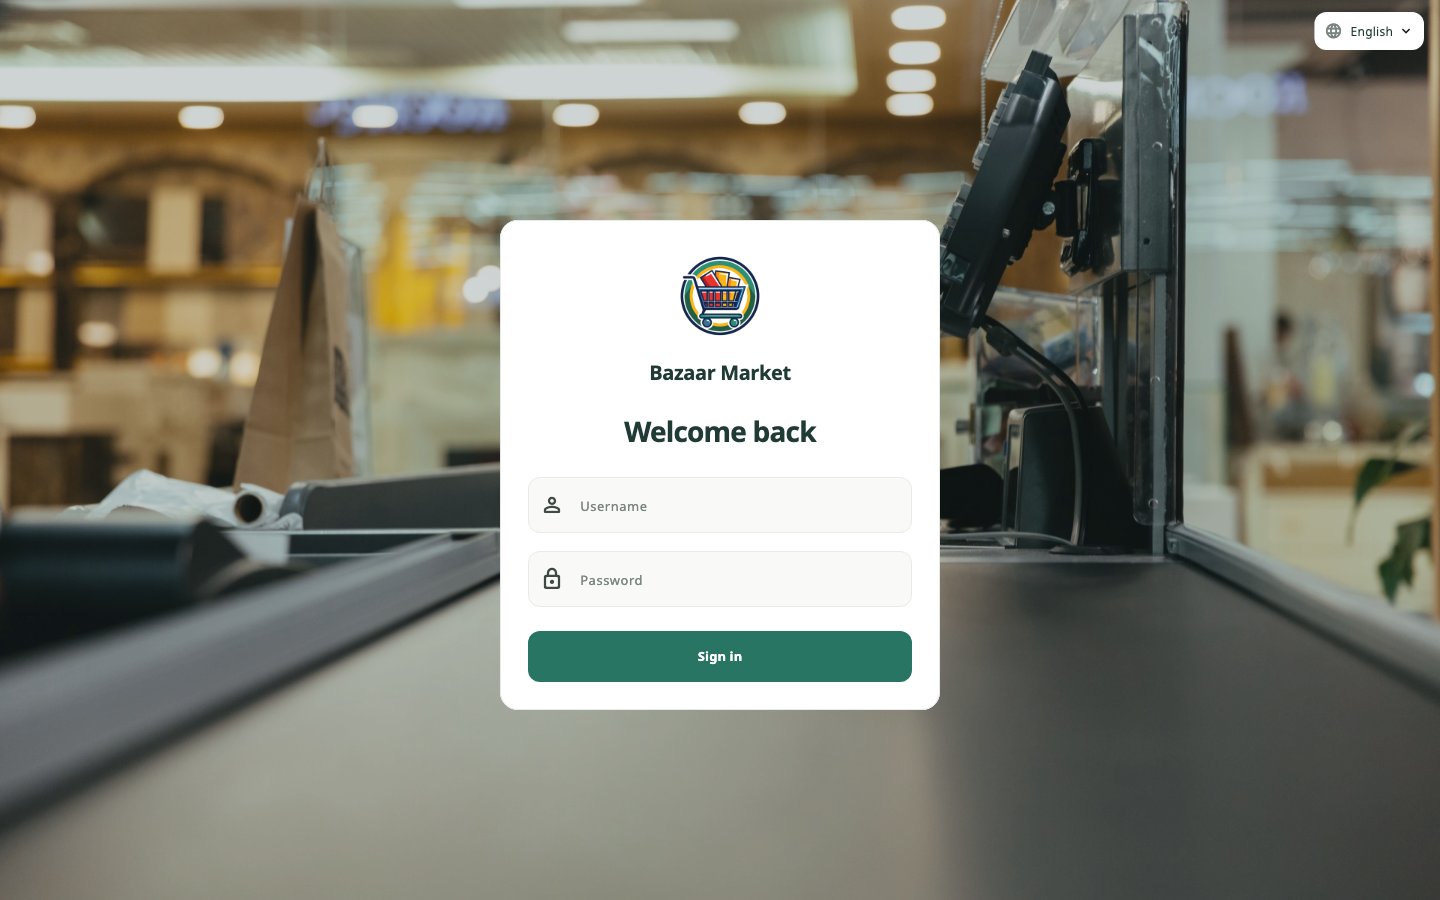
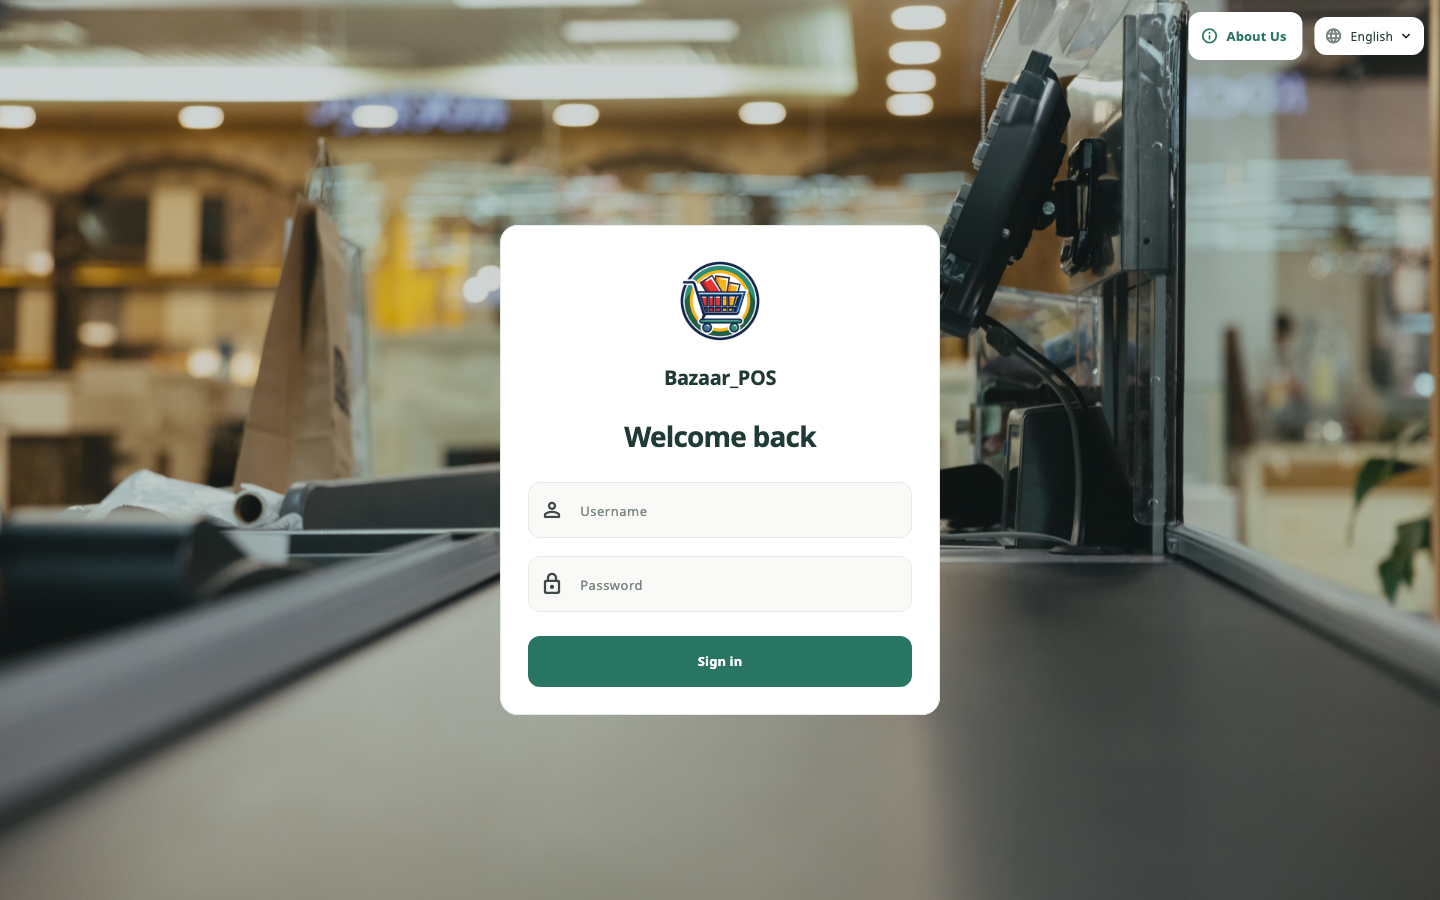
Bazaar_POS update

diff --git a/lib/screens/welcome_screen.dart b/lib/screens/welcome_screen.dart
@@ -36,6 +36,35 @@ class _WelcomeScreenState extends State<WelcomeScreen> {
     }
   }
 
+  void _showAboutUs() {
+    showDialog<void>(
+      context: context,
+      builder: (context) => AlertDialog(
+        title: Text(context.tr('aboutUs')),
+        scrollable: true,
+        content: Column(
+          mainAxisSize: MainAxisSize.min,
+          crossAxisAlignment: CrossAxisAlignment.start,
+          children: [
+            Image.asset(defaultLogoAsset, width: 64, height: 64),
+            const SizedBox(height: 16),
+            Text('Bazaar_POS', style: Theme.of(context).textTheme.titleLarge),
+            const SizedBox(height: 12),
+            Text(context.tr('aboutPurposeValue')),
+            const SizedBox(height: 16),
+            const Text('Powered By: Safin Gulli'),
+          ],
+        ),
+        actions: [
+          TextButton(
+            onPressed: () => Navigator.pop(context),
+            child: Text(context.tr('close')),
+          ),
+        ],
+      ),
+    );
+  }
+
   @override
   Widget build(BuildContext context) => Scaffold(
     body: Stack(
@@ -50,14 +79,41 @@ class _WelcomeScreenState extends State<WelcomeScreen> {
         SafeArea(
           child: Column(
             children: [
-              const Align(
+              Align(
                 alignment: AlignmentDirectional.centerEnd,
                 child: Padding(
-                  padding: EdgeInsets.fromLTRB(16, 12, 16, 0),
-                  child: Material(
-                    color: Colors.white,
-                    borderRadius: BorderRadius.all(Radius.circular(12)),
-                    child: LanguageMenu(),
+                  padding: const EdgeInsets.fromLTRB(16, 12, 16, 0),
+                  child: Wrap(
+                    alignment: WrapAlignment.end,
+                    crossAxisAlignment: WrapCrossAlignment.center,
+                    spacing: 12,
+                    runSpacing: 8,
+                    children: [
+                      Material(
+                        color: Colors.white,
+                        borderRadius: BorderRadius.circular(12),
+                        child: TextButton.icon(
+                          key: const ValueKey('welcome-about-us'),
+                          onPressed: _showAboutUs,
+                          style: TextButton.styleFrom(
+                            minimumSize: const Size(0, 44),
+                            shape: RoundedRectangleBorder(
+                              borderRadius: BorderRadius.circular(12),
+                            ),
+                          ),
+                          icon: const Icon(
+                            Icons.info_outline_rounded,
+                            size: 18,
+                          ),
+                          label: Text(context.tr('aboutUs')),
+                        ),
+                      ),
+                      const Material(
+                        color: Colors.white,
+                        borderRadius: BorderRadius.all(Radius.circular(12)),
+                        child: LanguageMenu(),
+                      ),
+                    ],
                   ),
                 ),
               ),
@@ -86,7 +142,7 @@ class _WelcomeScreenState extends State<WelcomeScreen> {
                                 ),
                                 const SizedBox(height: 16),
                                 Text(
-                                  context.store.settings.name,
+                                  'Bazaar_POS',
                                   textAlign: TextAlign.center,
                                   style: Theme.of(context).textTheme.titleLarge,
                                 ),

diff --git a/lib/core/strings.dart b/lib/core/strings.dart
@@ -149,7 +149,7 @@ final Map<String, List<String>> translations = {
     "رمز منتج مخصص",
     "هێمایێ تایبەت یێ بەرهەمی",
   ],
-  "aboutUs": ["About us", "من نحن", "دەربارەی مە"],
+  "aboutUs": ["About Us", "من نحن", "دەربارەی مە"],
   "aboutAppName": ["App name", "اسم التطبيق", "ناڤێ ئەپێ"],
   "aboutPurpose": ["What we do", "ماذا نقدم", "ئەو کارێ ئەم دکەین"],
   "aboutPurposeValue": [

diff --git a/README.md b/README.md
@@ -19,7 +19,7 @@ that launch configuration so port 8080 is available.
 To make the app available at an internet address, follow the
 [website publishing and GitHub release guide](docs/publishing.md).
 
-The welcome screen shows only the store branding, language selector, and username/password sign-in form. Enter username **`safin97`** and the password supplied by the store owner, then select **Sign in**. This account has **super manager** access. The password is not printed in this README or stored as plaintext in the app.
+The welcome screen shows the Bazaar_POS branding, language selector, an **About Us** button in the top corner, and the username/password sign-in form. Enter username **`safin97`** and the password supplied by the store owner, then select **Sign in**. This account has **super manager** access. The password is not printed in this README or stored as plaintext in the app.
 
 A one-time migration provisions this account for both fresh installations and existing local databases. Existing inventory, sales, branding and other staff accounts are retained. Subsequent starts respect account edits and password changes rather than resetting them. New installations include editable sample inventory with no fabricated sales. Store details and team accounts are managed after signing in.
 
@@ -103,7 +103,7 @@ flutter build windows --release
 - **iOS/macOS:** install full Xcode and run its first-launch setup. Plugin builds may also need CocoaPods. iOS device distribution needs your Apple signing team and provisioning.
 - **Windows:** build on Windows with Visual Studio's Desktop development with C++ workload.
 - macOS sandbox entitlements include user-selected file access and printing.
-- Editable in-app branding changes the welcome screen, navigation and receipts. OS launcher names/icons are build-time assets; changing those requires rebuilding the app.
+- Editable in-app branding changes the market navigation and receipts. The welcome screen keeps the Bazaar_POS app name and logo. OS launcher names/icons are build-time assets; changing those requires rebuilding the app.
 
 On the development Mac used to create this project, the Android SDK, full Xcode and CocoaPods were unavailable. Native binaries could not be verified there. The web release build and Flutter tests can be verified without these platform SDKs.
 
